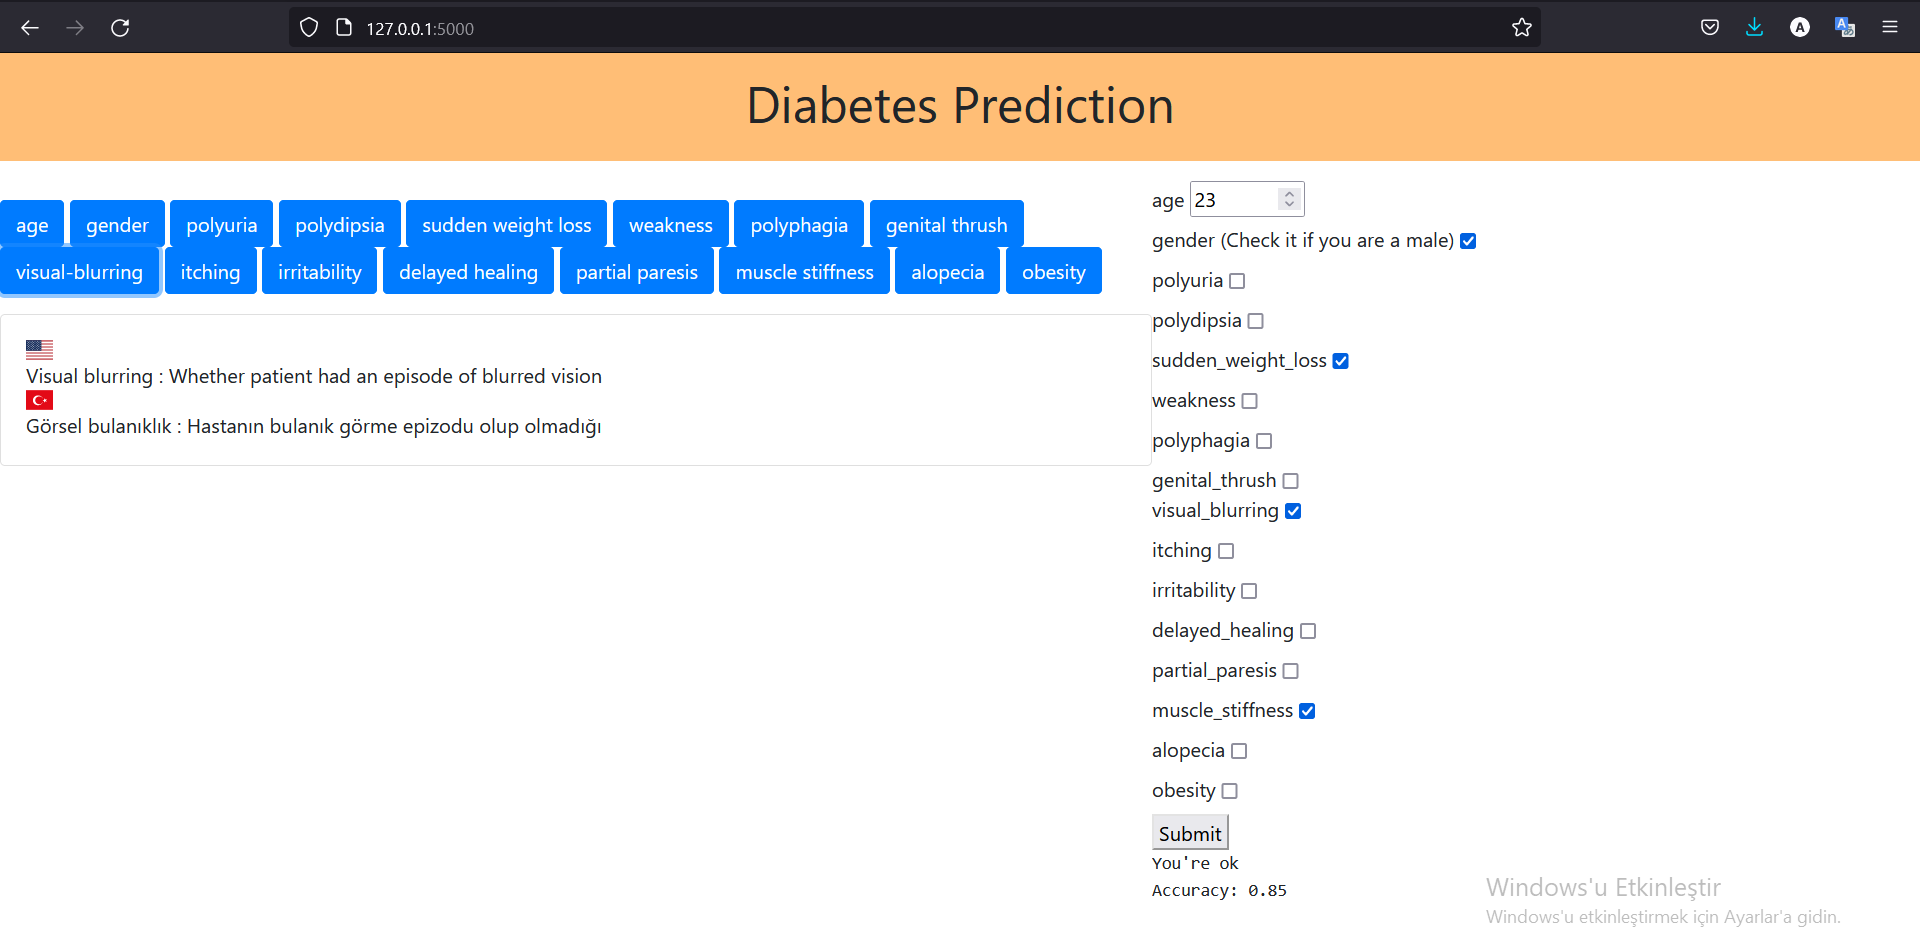
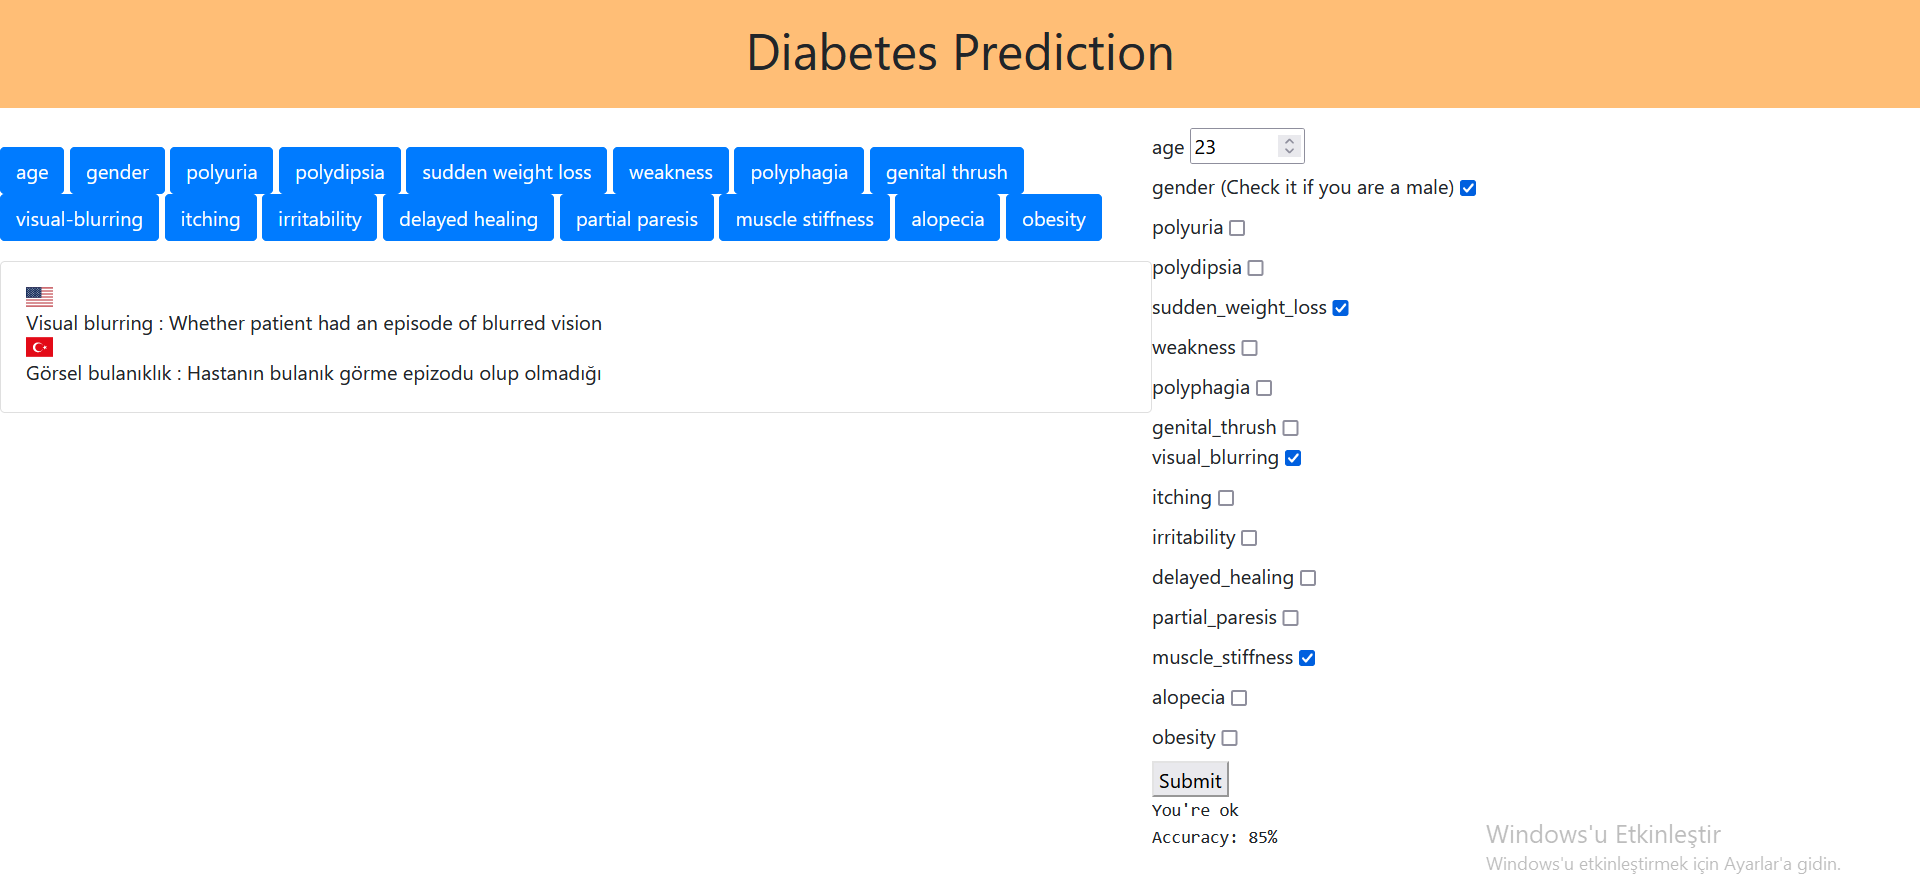
small updates

Changed region(s): [[0.0, 0.0, 1.0, 0.9852], [0.7812, 0.9544, 0.9375, 1.0]]

diff --git a/utils/predict.py b/utils/predict.py
@@ -35,11 +35,12 @@ def predict(columns, age, checks, model):
 
     pred = model.predict(np.array([checkList,]))
     pred_proba = model.predict_proba(np.array([checkList,]))
+    pred_percent = str(pred_proba[0][pred[0]]).split(".")[1]
 
     if pred[0] == 0:
-        pred_text = f"You're ok\nAccuracy: {pred_proba[0][pred[0]]}"
+        pred_text = f"You're ok\nAccuracy: {pred_percent}%"
 
     elif pred[0] == 1:
-        pred_text = f"You have diabetes\nAccuracy: {pred_proba[0][pred[0]]}"
+        pred_text = f"You have diabetes\nAccuracy: {pred_percent}%"
 
     return pred_text
